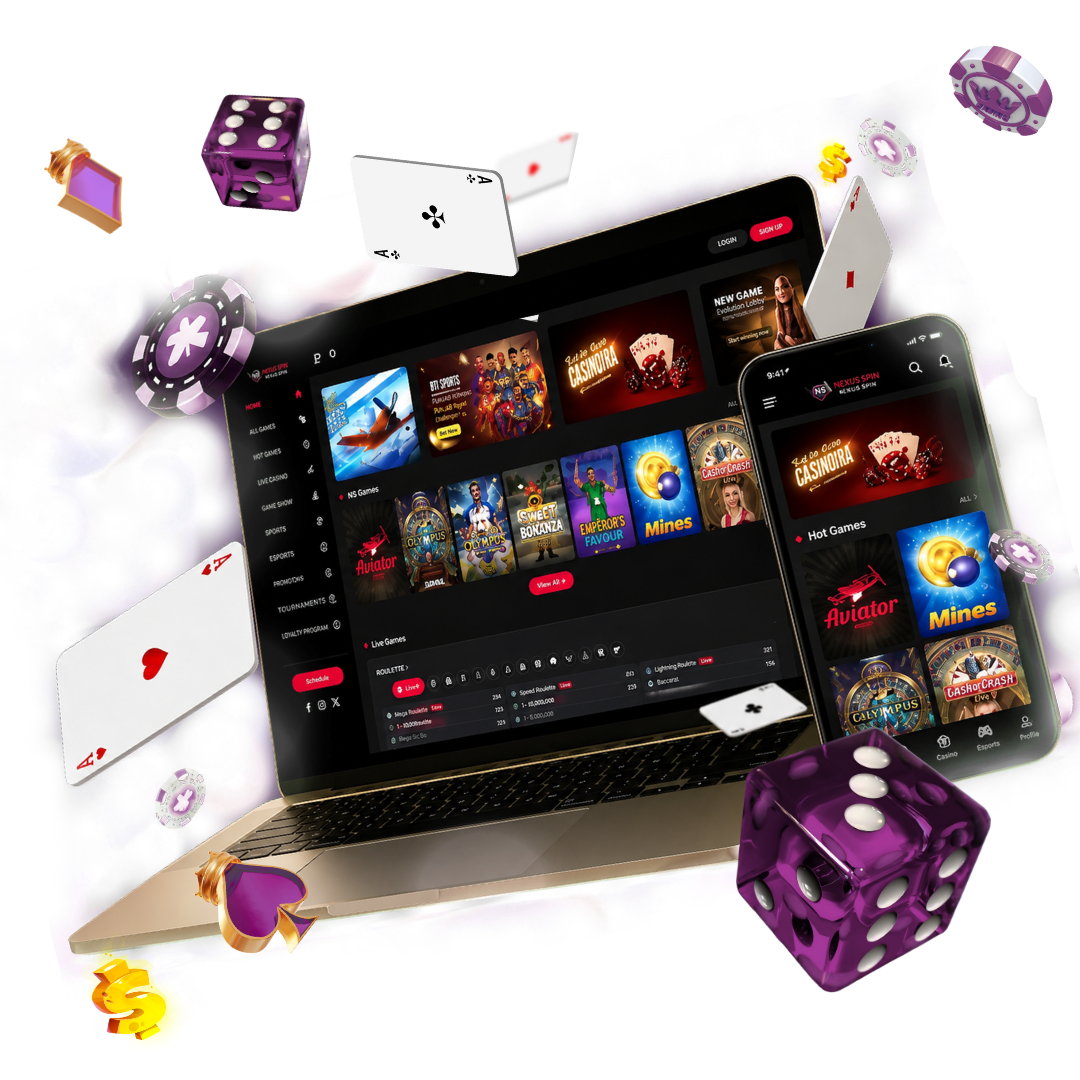
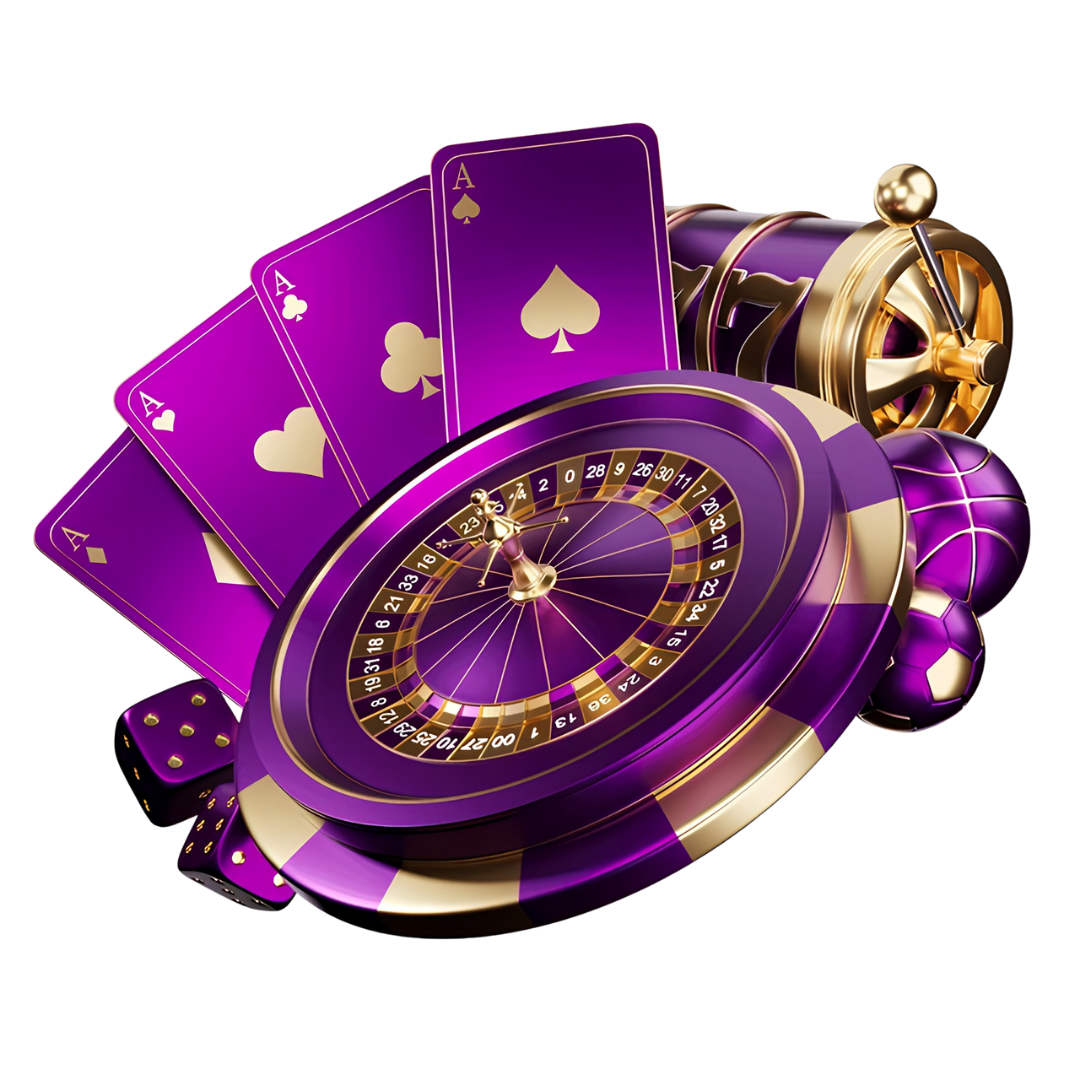
changes

diff --git a/index.html b/index.html
@@ -38,7 +38,7 @@
                 </ul>
             </div>
             <div class="d-none d-lg-block">
-                <a href="#cta-section" class="btn btn-gold d-inline-flex align-items-center gap-2">
+                <a  href="https://wa.me/264813278786" target="_blank" class="btn btn-gold d-inline-flex align-items-center gap-2">
                     Start Platform <i class="bi bi-rocket-takeoff-fill"></i>
                 </a>
             </div>
@@ -160,11 +160,11 @@
 
                         <div
                             class="d-flex flex-column flex-sm-row gap-3 justify-content-center justify-content-lg-start mb-4">
-                            <a href="#cta-section"
+                            <a  href="https://wa.me/264813278786" target="_blank"
                                 class="btn btn-gold d-inline-flex align-items-center justify-content-center gap-2 fs-6 py-3 px-4">
                                 <i class="bi bi-rocket-takeoff-fill"></i> Gaming Platform
                             </a>
-                            <a href="#why-choose"
+                            <a  href="https://wa.me/264813278786" target="_blank"
                                 class="btn btn-gold-outline d-inline-flex align-items-center justify-content-center gap-2 fs-6 py-3 px-4">
                                 <i class="bi bi-shield-check"></i> WhiteLable 
                             </a>
@@ -362,7 +362,7 @@
                                     <li><i class="bi bi-check-circle-fill text-gold me-2"></i> Turnkey Deployment in Days
                                     </li>
                                 </ul>
-                                <a href="#cta-section" class="btn btn-gold w-100">Get Started Now</a>
+                                <a  href="https://wa.me/264813278786" target="_blank" class="btn btn-gold w-100">Get Started Now</a>
                             </div>
                         </div>
                     </div>
@@ -395,7 +395,7 @@
                                     <li><i class="bi bi-check-circle-fill text-gold me-2"></i> 99.99% Uptime Guarantee
                                     </li>
                                 </ul>
-                                <a href="#cta-section" class="btn btn-gold-outline w-100">Claim N$0 Monthly Offer</a>
+                                <a  href="https://wa.me/264813278786" target="_blank" class="btn btn-gold-outline w-100">Claim N$0 Monthly Offer</a>
                             </div>
                         </div>
                     </div>
@@ -424,7 +424,7 @@
                                         Settlement</li>
                                     <li><i class="bi bi-check-circle-fill text-gold me-2"></i> Shared Growth Incentive</li>
                                 </ul>
-                                <a href="#cta-section" class="btn btn-gold w-100">Calculate Potential Profit</a>
+                                <a  href="https://wa.me/264813278786" target="_blank" class="btn btn-gold w-100">Calculate Potential Profit</a>
                             </div>
                         </div>
                     </div>
@@ -1140,7 +1140,7 @@
                         </div>
 
                         <div class="d-flex flex-column flex-md-row gap-3 justify-content-center align-items-center mb-4">
-                            <a href="https://wa.me/264811111111" target="_blank"
+                            <a href="https://wa.me/264813278786" target="_blank"
                                 class="btn btn-gold cta-glow-pulse d-inline-flex align-items-center gap-2 px-5 py-3 fs-6">
                                 <i class="bi bi-whatsapp fs-5"></i> Start Your Gaming Platform
                             </a>
@@ -1195,7 +1195,7 @@
                     <p style="color:var(--text-dim);font-size:.88rem;line-height:1.7" class="mb-2">
                         Get in touch with our technical team today to initiate your platform launch.
                     </p>
-                    <a href="https://wa.me/264811111111" target="_blank"
+                    <a href="https://wa.me/264813278786" target="_blank"
                         style="text-decoration:none; color:var(--gold); font-weight:700;">
                         <i class="bi bi-whatsapp"></i> WhatsApp Direct Consultation
                     </a>
@@ -1319,7 +1319,7 @@
 </script>
 
 <!-- Floating WhatsApp Button with Blink & Ripple Animation -->
-<a href="https://wa.me/?text=Hello!%20I%20am%20interested%20in%20launching%20a%20turnkey%20gaming%20platform%20in%20Namibia."
+<a href="https://wa.me/264813278786?text=Hello!%20I%20am%20interested%20in%20launching%20a%20turnkey%20gaming%20platform%20in%20Namibia."
     target="_blank" rel="noopener noreferrer"
     class="whatsapp-float-btn position-fixed d-flex align-items-center justify-content-center"
     aria-label="Chat on WhatsApp" title="Chat with Us on WhatsApp">